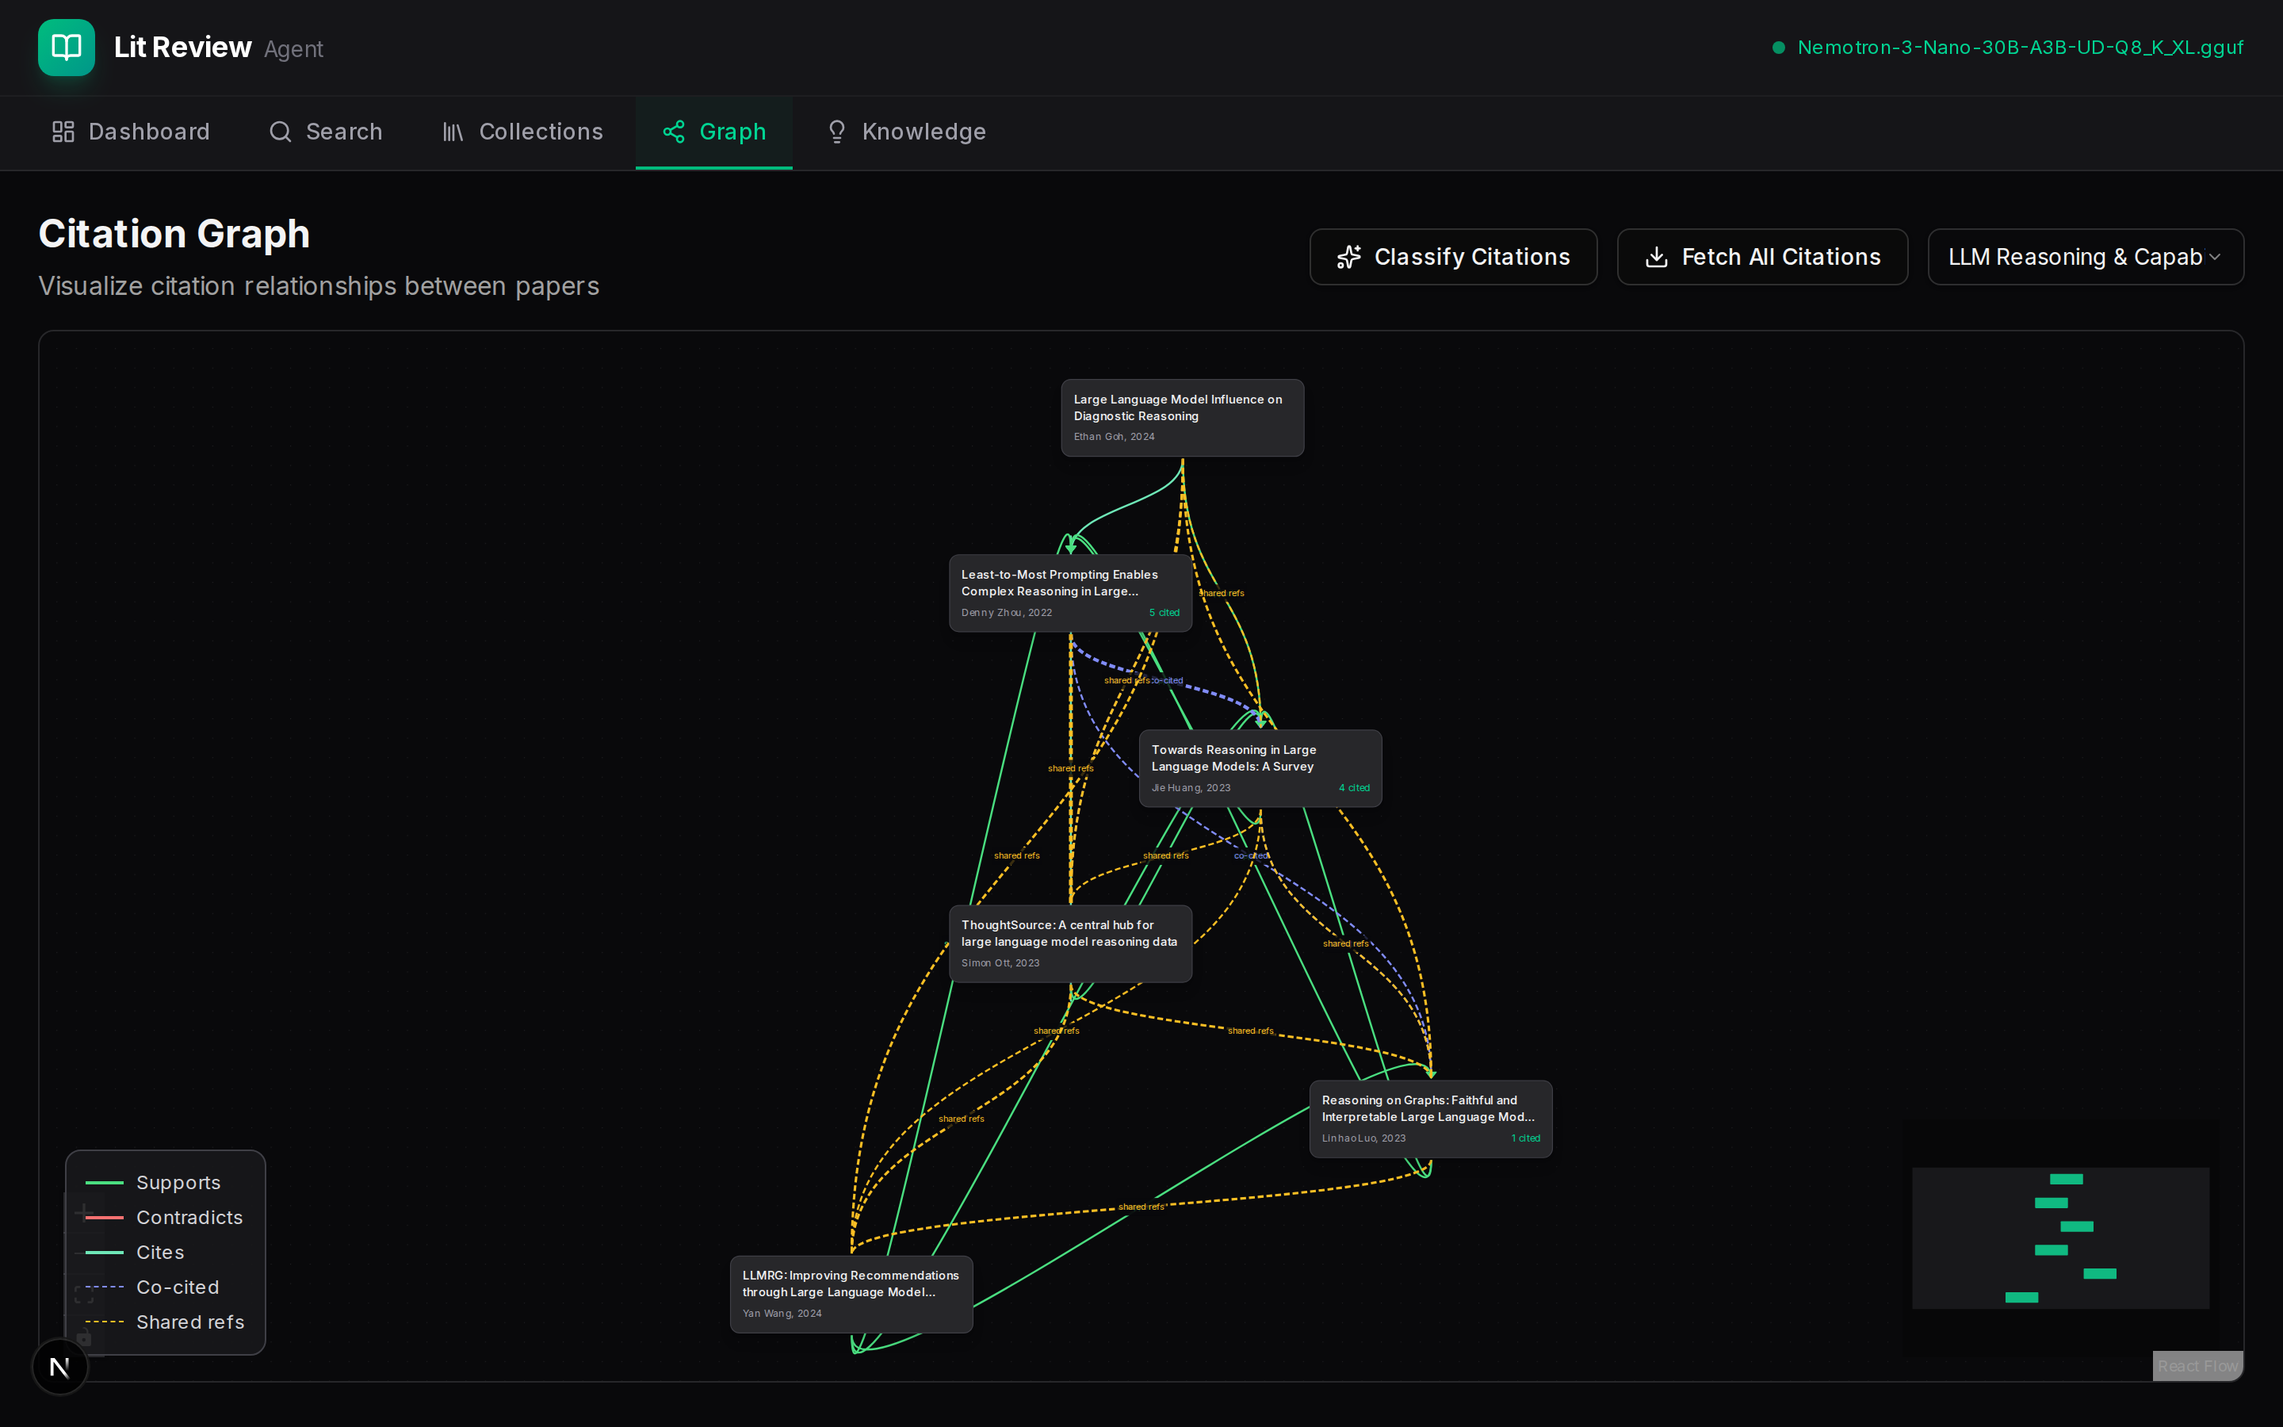
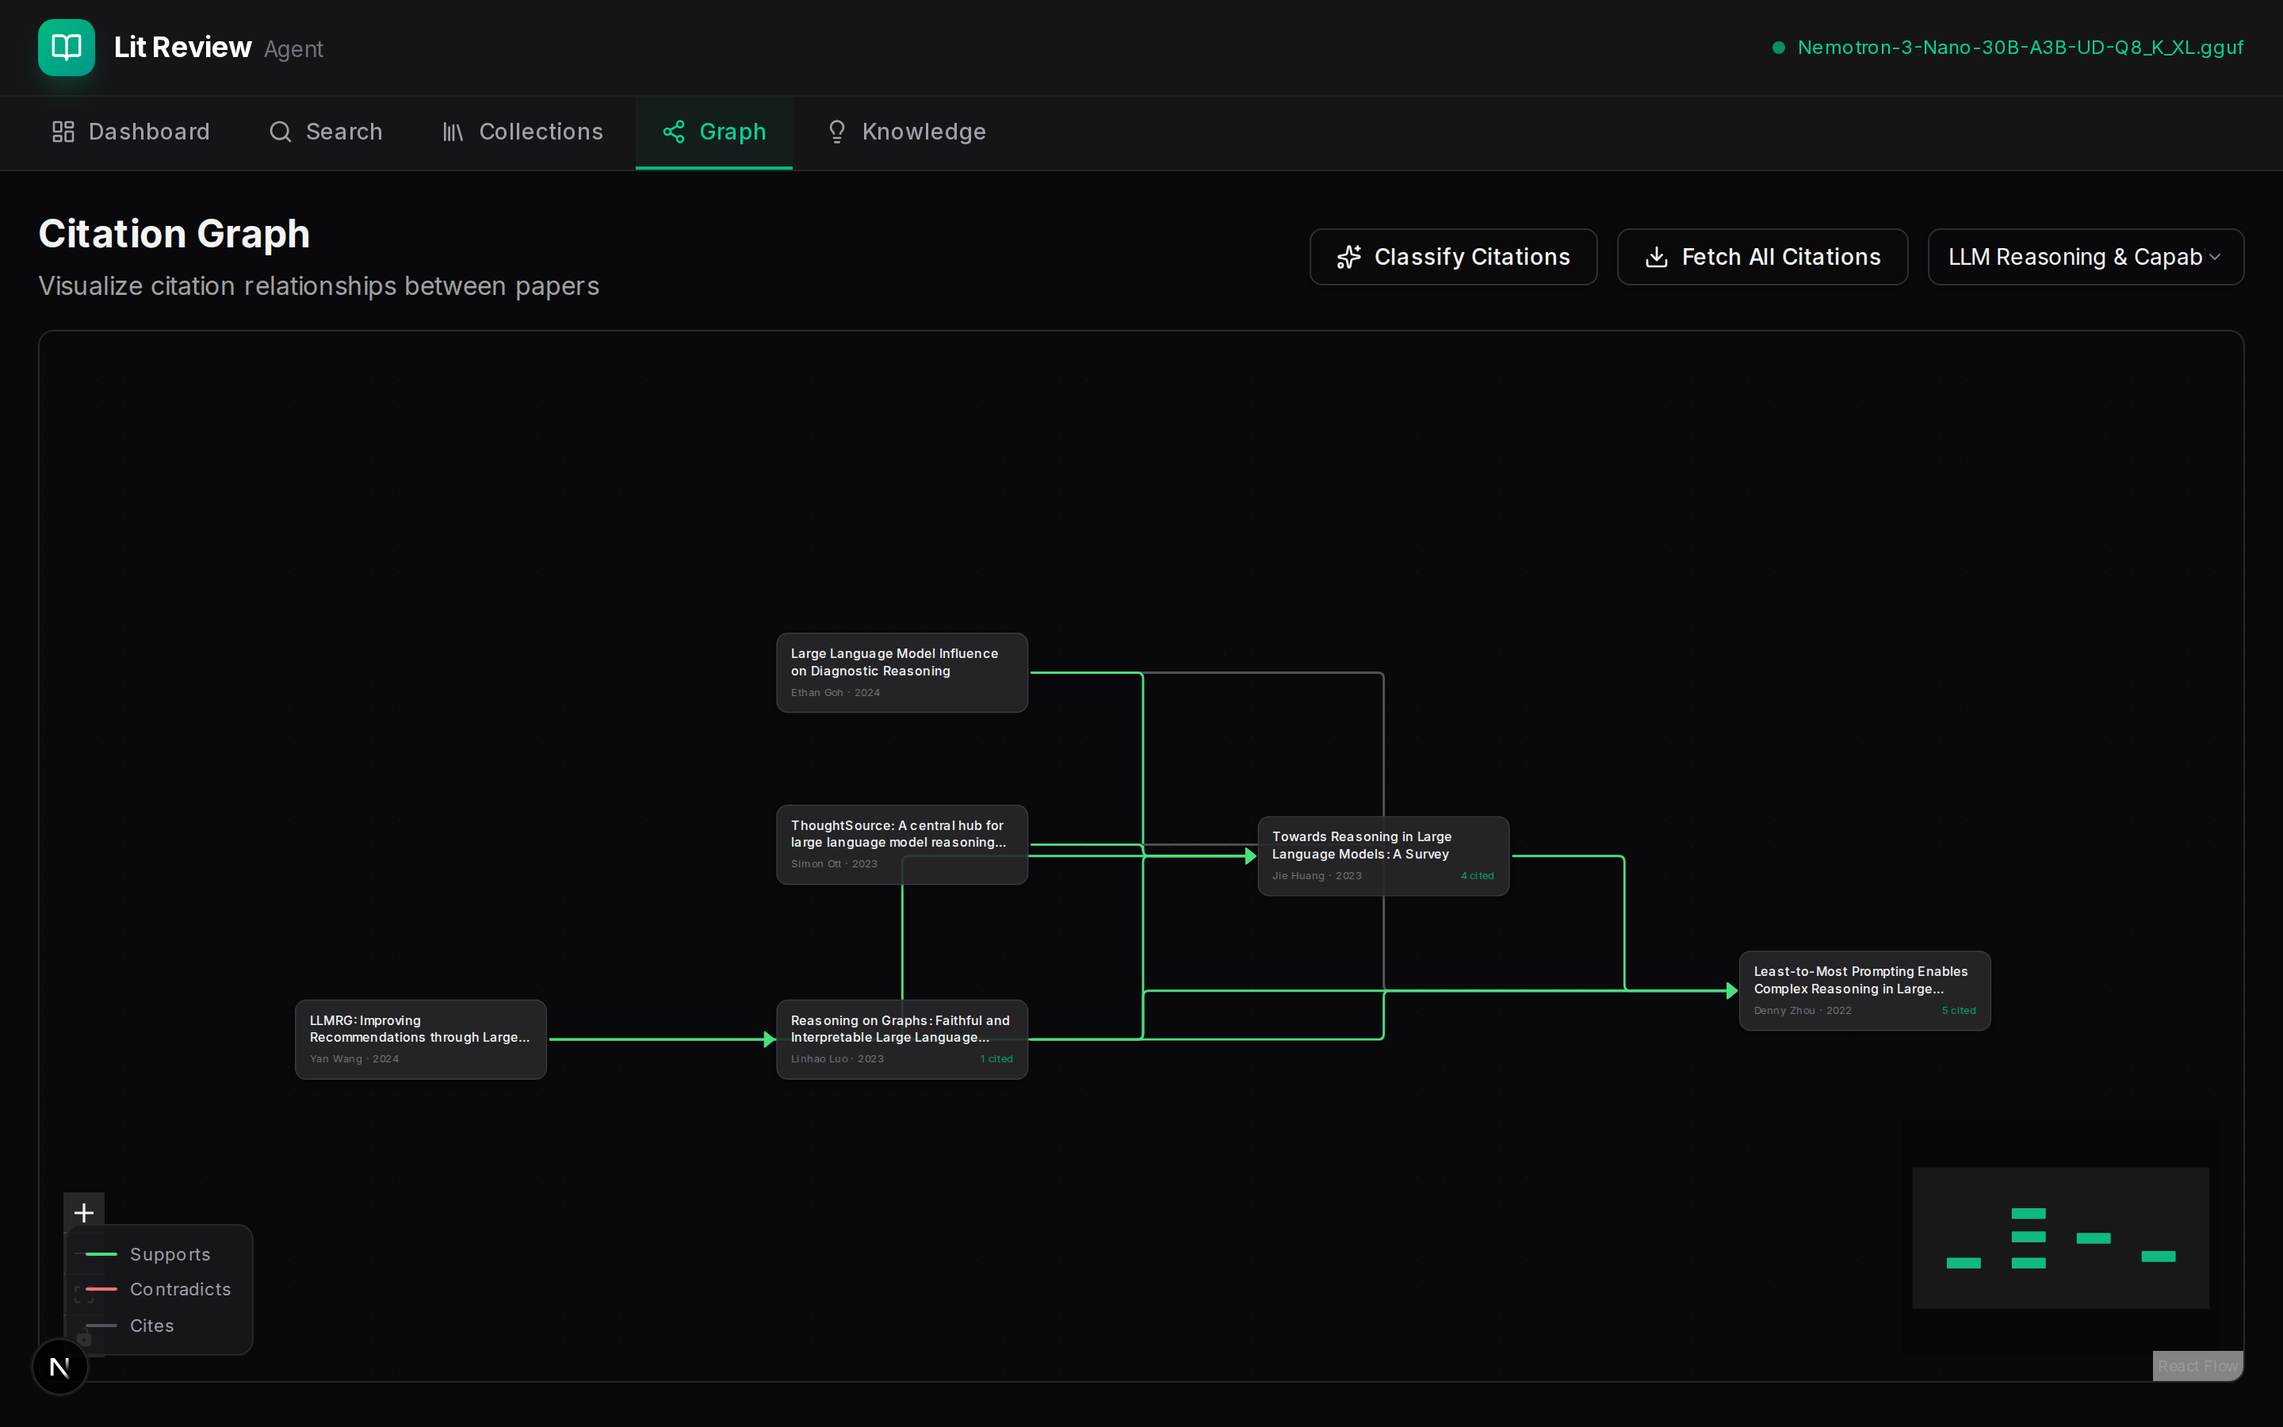
Redesign citation graph for cleaner layout
- Switch from top-bottom to left-right dagre layout
- Use smoothstep edge routing instead of bezier curves
- Only render direct citation edges (drop co-citation and
  bibliographic coupling overlays that caused visual clutter)
- Increase node spacing (nodesep: 80, ranksep: 200)
- Simplify legend to three edge types
- More compact node design (220x70px)

diff --git a/src/components/citation-graph.tsx b/src/components/citation-graph.tsx
@@ -42,28 +42,29 @@ interface Props {
   onNodeClick?: (paperId: number) => void;
 }
 
-const NODE_WIDTH = 250;
-const NODE_HEIGHT = 80;
+const NODE_WIDTH = 220;
+const NODE_HEIGHT = 70;
 
 const EDGE_COLORS: Record<string, string> = {
-  supports: "#4ade80",      // green
-  contradicts: "#f87171",   // red
-  mentions: "#6ee7b7",      // emerald
-  co_citation: "#818cf8",   // indigo
-  bibliographic_coupling: "#fbbf24", // amber
+  supports: "#4ade80",
+  contradicts: "#f87171",
+  mentions: "#52525b",
 };
 
 function getLayoutedElements(nodes: Node[], edges: Edge[]) {
   const g = new dagre.graphlib.Graph();
   g.setDefaultEdgeLabel(() => ({}));
-  g.setGraph({ rankdir: "TB", nodesep: 60, ranksep: 100 });
+  g.setGraph({ rankdir: "LR", nodesep: 80, ranksep: 200, marginx: 40, marginy: 40 });
 
   nodes.forEach((node) => {
     g.setNode(node.id, { width: NODE_WIDTH, height: NODE_HEIGHT });
   });
 
+  // Only use direct citation edges for layout to avoid tangled routing
   edges.forEach((edge) => {
-    g.setEdge(edge.source, edge.target);
+    if (!edge.data?.inferred) {
+      g.setEdge(edge.source, edge.target);
+    }
   });
 
   dagre.layout(g);
@@ -84,18 +85,18 @@ function getLayoutedElements(nodes: Node[], edges: Edge[]) {
 
 function PaperNode({ data }: { data: { title: string; year: number | null; authors: string[]; citationCount: number } }) {
   return (
-    <div className="bg-zinc-800 border border-zinc-700 rounded-lg p-3 w-[250px] shadow-lg hover:border-emerald-500 transition-colors cursor-pointer">
-      <Handle type="target" position={Position.Top} className="!bg-transparent !border-0 !w-4 !h-1 !min-w-0 !min-h-0" />
-      <p className="text-xs font-medium text-zinc-100 line-clamp-2 leading-snug">{data.title}</p>
-      <div className="flex items-center justify-between mt-1.5">
-        <span className="text-[10px] text-zinc-400">
-          {data.authors?.[0] || "Unknown"}{data.year ? `, ${data.year}` : ""}
+    <div className="bg-zinc-800/90 border border-zinc-700/80 rounded-lg px-3 py-2.5 w-[220px] shadow-md hover:border-emerald-500/70 transition-colors cursor-pointer">
+      <Handle type="target" position={Position.Left} className="!bg-transparent !border-0 !w-1 !h-4 !min-w-0 !min-h-0" />
+      <p className="text-[11px] font-medium text-zinc-100 line-clamp-2 leading-snug">{data.title}</p>
+      <div className="flex items-center justify-between mt-1">
+        <span className="text-[9px] text-zinc-500">
+          {data.authors?.[0] || "Unknown"}{data.year ? ` · ${data.year}` : ""}
         </span>
         {data.citationCount > 0 && (
-          <span className="text-[10px] text-emerald-400">{data.citationCount} cited</span>
+          <span className="text-[9px] text-emerald-500/80">{data.citationCount} cited</span>
         )}
       </div>
-      <Handle type="source" position={Position.Bottom} className="!bg-transparent !border-0 !w-4 !h-1 !min-w-0 !min-h-0" />
+      <Handle type="source" position={Position.Right} className="!bg-transparent !border-0 !w-1 !h-4 !min-w-0 !min-h-0" />
     </div>
   );
 }
@@ -139,27 +140,23 @@ export function CitationGraph({ collectionId, paperId, onNodeClick }: Props) {
       },
     }));
 
-    const flowEdges: Edge[] = graphData.edges.map((e, i) => {
-      const isCitation = e.type === "citation";
-      const color = isCitation
-        ? EDGE_COLORS[e.relationship || "mentions"]
-        : EDGE_COLORS[e.type];
+    // Only show direct citation edges — skip co_citation and bibliographic_coupling
+    const citationEdges = graphData.edges.filter((e) => e.type === "citation");
+
+    const flowEdges: Edge[] = citationEdges.map((e, i) => {
+      const color = EDGE_COLORS[e.relationship || "mentions"];
 
       return {
         id: `e-${i}`,
         source: e.source,
         target: e.target,
-        markerEnd: isCitation ? { type: MarkerType.ArrowClosed, color } : undefined,
+        type: "smoothstep",
+        markerEnd: { type: MarkerType.ArrowClosed, color, width: 16, height: 16 },
         style: {
           stroke: color,
-          strokeWidth: isCitation ? 2 : Math.min(1.5 + (e.strength || 1) * 0.5, 4),
-          strokeDasharray: isCitation ? undefined : "6 3",
+          strokeWidth: 2,
         },
-        label: !isCitation
-          ? (e.type === "co_citation" ? "co-cited" : "shared refs")
-          : (e.relationship === "supports" ? "supports" : e.relationship === "contradicts" ? "contradicts" : undefined),
-        labelStyle: { fill: color, fontSize: 9 },
-        labelBgStyle: { fill: "#09090b", fillOpacity: 0.8 },
+        data: { inferred: false },
       };
     });
 
@@ -205,11 +202,12 @@ export function CitationGraph({ collectionId, paperId, onNodeClick }: Props) {
         onNodeClick={handleNodeClick}
         nodeTypes={nodeTypes}
         fitView
+        fitViewOptions={{ padding: 0.3 }}
         className="bg-zinc-950"
         minZoom={0.1}
         maxZoom={3}
       >
-        <Background color="#27272a" gap={20} />
+        <Background color="#1c1c1e" gap={24} size={1} />
         <Controls className="!bg-zinc-800 !border-zinc-700 !text-zinc-100 [&>button]:!bg-zinc-800 [&>button]:!border-zinc-700 [&>button]:!text-zinc-100 [&>button:hover]:!bg-zinc-700" />
         <MiniMap
           className="!bg-zinc-900 !border-zinc-700"
@@ -218,26 +216,18 @@ export function CitationGraph({ collectionId, paperId, onNodeClick }: Props) {
         />
       </ReactFlow>
       {/* Legend */}
-      <div className="absolute bottom-4 left-4 bg-zinc-900/90 border border-zinc-700 rounded-lg p-3 text-xs space-y-1.5">
+      <div className="absolute bottom-4 left-4 bg-zinc-900/90 border border-zinc-800 rounded-lg px-3 py-2.5 text-[11px] space-y-1.5">
         <div className="flex items-center gap-2">
-          <div className="w-6 h-0.5" style={{ backgroundColor: EDGE_COLORS.supports }} />
-          <span className="text-zinc-300">Supports</span>
+          <div className="w-5 h-0.5 rounded-full" style={{ backgroundColor: EDGE_COLORS.supports }} />
+          <span className="text-zinc-400">Supports</span>
         </div>
         <div className="flex items-center gap-2">
-          <div className="w-6 h-0.5" style={{ backgroundColor: EDGE_COLORS.contradicts }} />
-          <span className="text-zinc-300">Contradicts</span>
+          <div className="w-5 h-0.5 rounded-full" style={{ backgroundColor: EDGE_COLORS.contradicts }} />
+          <span className="text-zinc-400">Contradicts</span>
         </div>
         <div className="flex items-center gap-2">
-          <div className="w-6 h-0.5" style={{ backgroundColor: EDGE_COLORS.mentions }} />
-          <span className="text-zinc-300">Cites</span>
-        </div>
-        <div className="flex items-center gap-2">
-          <div className="w-6 h-0.5 border-t border-dashed" style={{ borderColor: EDGE_COLORS.co_citation }} />
-          <span className="text-zinc-300">Co-cited</span>
-        </div>
-        <div className="flex items-center gap-2">
-          <div className="w-6 h-0.5 border-t border-dashed" style={{ borderColor: EDGE_COLORS.bibliographic_coupling }} />
-          <span className="text-zinc-300">Shared refs</span>
+          <div className="w-5 h-0.5 rounded-full" style={{ backgroundColor: EDGE_COLORS.mentions }} />
+          <span className="text-zinc-400">Cites</span>
         </div>
       </div>
     </div>

diff --git a/src/lib/website-graph-entry.tsx b/src/lib/website-graph-entry.tsx
@@ -15,9 +15,6 @@ import {
 } from "@xyflow/react";
 import dagre from "@dagrejs/dagre";
 
-// Inline xyflow styles will be injected by esbuild css loader — we skip the import
-// and rely on the bundled CSS or inline styles in the HTML shell.
-
 interface GraphNode {
   id: string;
   paperId: number;
@@ -35,21 +32,19 @@ interface GraphEdge {
   strength?: number;
 }
 
-const NODE_WIDTH = 250;
-const NODE_HEIGHT = 80;
+const NODE_WIDTH = 220;
+const NODE_HEIGHT = 70;
 
 const EDGE_COLORS: Record<string, string> = {
   supports: "#4ade80",
   contradicts: "#f87171",
-  mentions: "#6ee7b7",
-  co_citation: "#818cf8",
-  bibliographic_coupling: "#fbbf24",
+  mentions: "#52525b",
 };
 
 function getLayoutedElements(nodes: Node[], edges: Edge[]) {
   const g = new dagre.graphlib.Graph();
   g.setDefaultEdgeLabel(() => ({}));
-  g.setGraph({ rankdir: "TB", nodesep: 60, ranksep: 100 });
+  g.setGraph({ rankdir: "LR", nodesep: 80, ranksep: 200, marginx: 40, marginy: 40 });
 
   nodes.forEach((node) => {
     g.setNode(node.id, { width: NODE_WIDTH, height: NODE_HEIGHT });
@@ -83,8 +78,8 @@ function PaperNode({ data }: { data: Record<string, unknown> }) {
   const handleStyle = {
     background: "transparent",
     border: "none",
-    width: "8px",
-    height: "2px",
+    width: "2px",
+    height: "8px",
     minWidth: 0,
     minHeight: 0,
   };
@@ -94,20 +89,20 @@ function PaperNode({ data }: { data: Record<string, unknown> }) {
       href={`papers/${paperId}.html`}
       style={{
         display: "block",
-        background: "#27272a",
-        border: "1px solid #3f3f46",
+        background: "rgba(39, 39, 42, 0.9)",
+        border: "1px solid rgba(63, 63, 70, 0.8)",
         borderRadius: "8px",
-        padding: "12px",
-        width: "250px",
+        padding: "10px 12px",
+        width: "220px",
         textDecoration: "none",
         color: "inherit",
         cursor: "pointer",
         transition: "border-color 0.2s",
       }}
-      onMouseEnter={(e) => (e.currentTarget.style.borderColor = "#10b981")}
-      onMouseLeave={(e) => (e.currentTarget.style.borderColor = "#3f3f46")}
+      onMouseEnter={(e) => (e.currentTarget.style.borderColor = "rgba(16, 185, 129, 0.7)")}
+      onMouseLeave={(e) => (e.currentTarget.style.borderColor = "rgba(63, 63, 70, 0.8)")}
     >
-      <Handle type="target" position={Position.Top} style={handleStyle} />
+      <Handle type="target" position={Position.Left} style={handleStyle} />
       <p
         style={{
           fontSize: "11px",
@@ -128,20 +123,20 @@ function PaperNode({ data }: { data: Record<string, unknown> }) {
           display: "flex",
           justifyContent: "space-between",
           alignItems: "center",
-          marginTop: "6px",
+          marginTop: "4px",
         }}
       >
-        <span style={{ fontSize: "10px", color: "#a1a1aa" }}>
+        <span style={{ fontSize: "9px", color: "#71717a" }}>
           {authors?.[0] || "Unknown"}
-          {year ? `, ${year}` : ""}
+          {year ? ` · ${year}` : ""}
         </span>
         {citationCount > 0 && (
-          <span style={{ fontSize: "10px", color: "#34d399" }}>
+          <span style={{ fontSize: "9px", color: "rgba(16, 185, 129, 0.8)" }}>
             {citationCount} cited
           </span>
         )}
       </div>
-      <Handle type="source" position={Position.Bottom} style={handleStyle} />
+      <Handle type="source" position={Position.Right} style={handleStyle} />
     </a>
   );
 }
@@ -181,37 +176,22 @@ function GraphApp() {
       },
     }));
 
-    const flowEdges: Edge[] = graphData.edges.map((e, i) => {
-      const isCitation = e.type === "citation";
-      const color = isCitation
-        ? EDGE_COLORS[e.relationship || "mentions"]
-        : EDGE_COLORS[e.type];
+    // Only show direct citation edges
+    const citationEdges = graphData.edges.filter((e) => e.type === "citation");
+
+    const flowEdges: Edge[] = citationEdges.map((e, i) => {
+      const color = EDGE_COLORS[e.relationship || "mentions"];
 
       return {
         id: `e-${i}`,
         source: e.source,
         target: e.target,
-        markerEnd: isCitation
-          ? { type: MarkerType.ArrowClosed, color }
-          : undefined,
+        type: "smoothstep",
+        markerEnd: { type: MarkerType.ArrowClosed, color, width: 16, height: 16 },
         style: {
           stroke: color,
-          strokeWidth: isCitation
-            ? 2
-            : Math.min(1.5 + (e.strength || 1) * 0.5, 4),
-          strokeDasharray: isCitation ? undefined : "6 3",
+          strokeWidth: 2,
         },
-        label: !isCitation
-          ? e.type === "co_citation"
-            ? "co-cited"
-            : "shared refs"
-          : e.relationship === "supports"
-            ? "supports"
-            : e.relationship === "contradicts"
-              ? "contradicts"
-              : undefined,
-        labelStyle: { fill: color, fontSize: 9 },
-        labelBgStyle: { fill: "#09090b", fillOpacity: 0.8 },
       };
     });
 
@@ -276,11 +256,12 @@ function GraphApp() {
         onEdgesChange={onEdgesChange}
         nodeTypes={nodeTypes}
         fitView
+        fitViewOptions={{ padding: 0.3 }}
         style={{ background: "#09090b" }}
         minZoom={0.1}
         maxZoom={3}
       >
-        <Background color="#27272a" gap={20} />
+        <Background color="#1c1c1e" gap={24} size={1} />
         <Controls
           style={{
             background: "#27272a",
@@ -305,22 +286,16 @@ function GraphApp() {
           bottom: "16px",
           left: "16px",
           background: "rgba(24, 24, 27, 0.9)",
-          border: "1px solid #3f3f46",
+          border: "1px solid #27272a",
           borderRadius: "8px",
-          padding: "12px",
-          fontSize: "12px",
+          padding: "10px 12px",
+          fontSize: "11px",
         }}
       >
         {[
           { color: EDGE_COLORS.supports, label: "Supports" },
           { color: EDGE_COLORS.contradicts, label: "Contradicts" },
           { color: EDGE_COLORS.mentions, label: "Cites" },
-          { color: EDGE_COLORS.co_citation, label: "Co-cited", dashed: true },
-          {
-            color: EDGE_COLORS.bibliographic_coupling,
-            label: "Shared refs",
-            dashed: true,
-          },
         ].map((item) => (
           <div
             key={item.label}
@@ -333,13 +308,13 @@ function GraphApp() {
           >
             <div
               style={{
-                width: "24px",
+                width: "20px",
                 height: "2px",
                 backgroundColor: item.color,
-                borderStyle: item.dashed ? "dashed" : "solid",
+                borderRadius: "1px",
               }}
             />
-            <span style={{ color: "#d4d4d8" }}>{item.label}</span>
+            <span style={{ color: "#a1a1aa" }}>{item.label}</span>
           </div>
         ))}
       </div>
